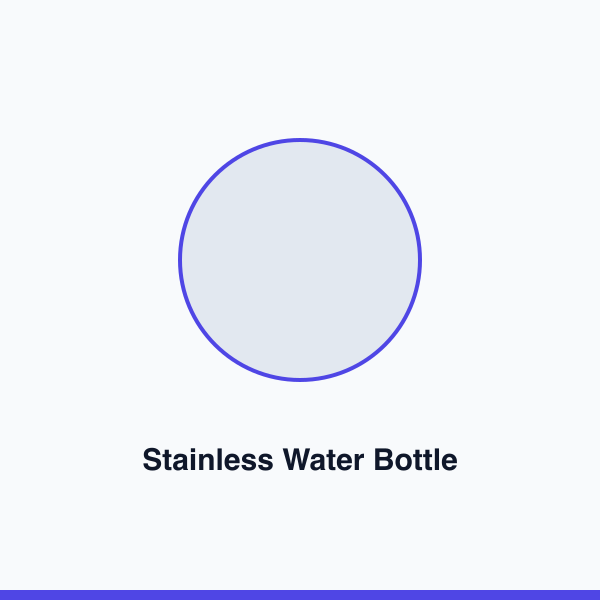
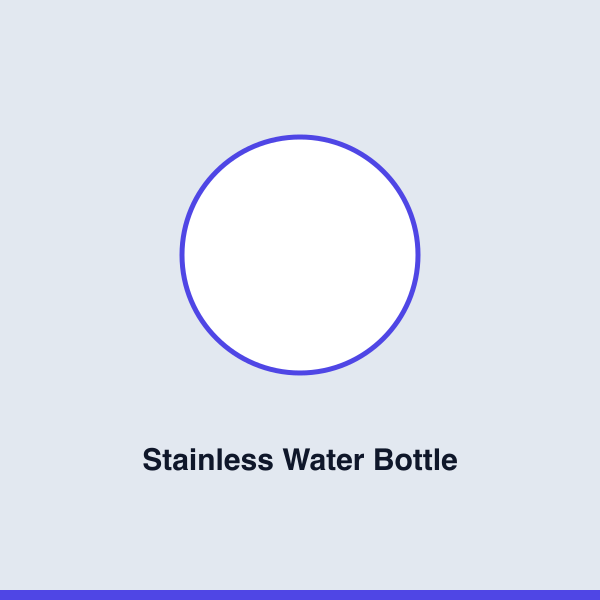
feat(auth): gate the whole site behind login + clearer placeholder images
Middleware now treats only /login and /auth/callback as public, so signed-out visitors never see products; sign-out lands on /login and /login skips itself when already signed in. Placeholder images now use a slate-200 background so they are clearly visible on the white card.

Changed region(s): [[0.27, 0.21, 0.72, 0.66]]

diff --git a/app/login/page.tsx b/app/login/page.tsx
@@ -1,6 +1,8 @@
-import Link from "next/link";
+import { redirect } from "next/navigation";
 import { signInWithGoogle } from "./actions";
+import { safeNextPath } from "@/lib/safe-redirect";
 import { primaryButton } from "@/lib/styles";
+import { createClient } from "@/lib/supabase/server";
 
 export const metadata = {
   title: "Sign in · Shop",
@@ -12,6 +14,17 @@ export default async function LoginPage({
   searchParams: Promise<{ error?: string; next?: string }>;
 }) {
   const { error, next } = await searchParams;
+  const nextPath = safeNextPath(next);
+
+  // Already signed in? Skip the login screen.
+  const supabase = await createClient();
+  const {
+    data: { user },
+  } = await supabase.auth.getUser();
+
+  if (user) {
+    redirect(nextPath);
+  }
 
   return (
     <main className="mx-auto max-w-md px-6 py-16">
@@ -27,16 +40,14 @@ export default async function LoginPage({
       ) : null}
 
       <form action={signInWithGoogle} className="mt-8">
-        <input type="hidden" name="next" value={next ?? "/"} />
+        <input type="hidden" name="next" value={nextPath} />
         <button type="submit" className={`${primaryButton} w-full`}>
           Continue with Google
         </button>
       </form>
 
       <p className="mt-6 text-sm text-slate-600">
-        <Link href="/" className="underline">
-          Back to the shop
-        </Link>
+        The shop is only visible once you are signed in.
       </p>
     </main>
   );

diff --git a/middleware.ts b/middleware.ts
@@ -1,13 +1,14 @@
 import { createServerClient } from "@supabase/ssr";
 import { NextResponse, type NextRequest } from "next/server";
 
-/** Pages that need a signed-in user. */
-const PROTECTED_PATHS = ["/cart", "/checkout"];
+/** The only pages a signed-out visitor may open. */
+const PUBLIC_PATHS = ["/login", "/auth/callback"];
 
 /**
  * Runs before every page. Its jobs:
  *  1. refresh the Supabase session cookie when the token expires, and
- *  2. send signed-out visitors from a protected page to /login.
+ *  2. send signed-out visitors to /login (everything except /login itself
+ *     requires an account - the shop is not browsable when signed out).
  */
 export async function middleware(request: NextRequest) {
   let response = NextResponse.next({ request });
@@ -45,11 +46,11 @@ export async function middleware(request: NextRequest) {
   } = await supabase.auth.getUser();
 
   const { pathname } = request.nextUrl;
-  const needsLogin = PROTECTED_PATHS.some(
+  const isPublic = PUBLIC_PATHS.some(
     (path) => pathname === path || pathname.startsWith(`${path}/`),
   );
 
-  if (!user && needsLogin) {
+  if (!user && !isPublic) {
     const url = request.nextUrl.clone();
     url.pathname = "/login";
     url.search = `?next=${encodeURIComponent(pathname)}`;

diff --git a/app/login/actions.ts b/app/login/actions.ts
@@ -39,9 +39,9 @@ export async function signInWithGoogle(formData: FormData) {
   }
 }
 
-/** Signs the user out and returns to the shop. */
+/** Signs the user out and returns them to the login page. */
 export async function signOut() {
   const supabase = await createClient();
   await supabase.auth.signOut();
-  redirect("/");
+  redirect("/login");
 }

diff --git a/AGENTS.md b/AGENTS.md
@@ -11,7 +11,7 @@ Next.js (App Router, TypeScript), Tailwind, Supabase (Postgres + Auth w/ Google)
 
 ## CORE (must have)
 - Login/logout with Google (via Supabase Auth)
-- Product list (8-10 seeded products), cards with Add to cart
+- Product list (8-10 seeded products), cards with Add to cart. OWNER CHANGE: the whole site requires login - signed-out visitors only ever see /login.
 - Cart: add, change quantity, remove. Stored in DB per user, persists across logout/login. Must be logged in to add.
 - Checkout page: order summary + Place order (mock payment, no real card)
 - On order: save order + items, clear cart, show confirmation page, send confirmation email via Mailgun. Email failure must NOT fail the order.
@@ -67,6 +67,8 @@ Core: live URL works: log in with Google, add to cart, log out, log in, cart int
 Stretch: detail page opens from a product card; search filters the list; core test above still passes.
 
 ## Status
-Done: M0 (scaffold), H1 (Supabase keys in `.env.local`), M1 (4 tables + RLS + 9 seeded products), M2 (product list page at `/`; images are local files in `public/products/`), H2 (Google OAuth: client in Google Cloud + provider enabled in Supabase), M3 (Google login/logout: `/login`, `/auth/callback` code exchange, middleware session refresh, `/cart` + `/checkout` protected, header shows email + Sign out).
-Verified: signed-out `/cart` and `/checkout` return 307 to `/login?next=...`; Supabase `/auth/v1/authorize?provider=google` returns 302 to accounts.google.com.
+Done: M0 (scaffold), H1 (Supabase keys), M1 (4 tables + RLS + 9 seeded products), M2 (product list page; local images in `public/products/`), H2 (Google OAuth configured), M3 (Google login/logout + the whole site gated behind login).
+OWNER CHANGE: the product list is not browsable when signed out - `/` returns 307 to `/login?next=/`, and signing out sends you back to `/login`. Only `/login` and `/auth/callback` are public.
+Note: the M1 DB policy "products readable by all" is unchanged, so the anon key can still read products through the API. Ask if you also want that restricted to signed-in users.
+Verified: signed-out `/`, `/cart`, `/checkout` all 307 -> `/login?next=...`; `/login` returns 200 with the Google button and no product data; `/auth/callback` without a code -> `/login?error=...`.
 Current: M4 next - DB-backed cart (add / change quantity / remove) + `/cart` page.
